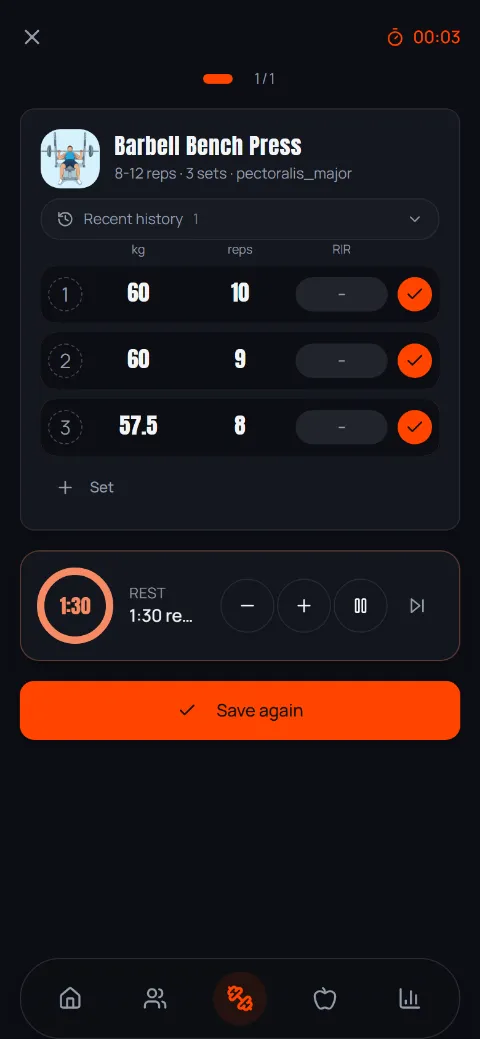
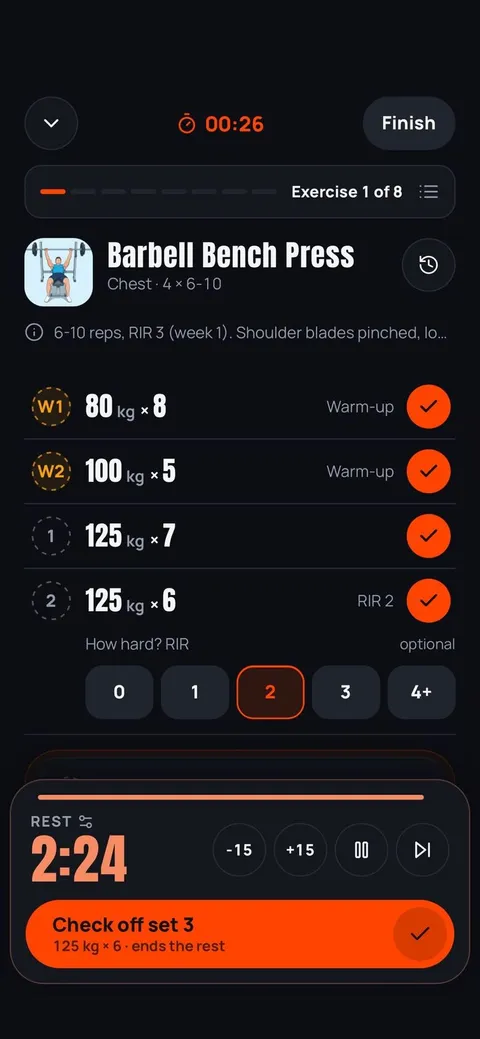
New app screenshots for the new design; plan copy matches the app
- iPhone captures of 30 Sep 2026: onboarding, plan preview, workout with
  warm-ups, exercise library, exercise detail and food detail, with new
  captions and alt texts. Home, nutrition and progress follow.
- Plans: the app recommends a library program, the AI is one option.

diff --git a/src/content/screenshots.js b/src/content/screenshots.js
@@ -3,10 +3,12 @@
 // placements. Every file is 780 x 1688 (or 480 x 1039), so the frame can
 // reserve the space before the image loads.
 //
-// dashboard, onboarding-focus-muscles, nutrition-day, food-detail and
-// progress-records are iPhone captures (25 Sep 2026): cropped to the frame's
-// aspect, with the iOS status bar (time, battery) painted over in the app's
-// background. The *-dark.png files are older German captures and stay out of
+// All are iPhone captures, cropped to the frame's aspect with the iOS
+// status bar (time, battery) painted over in the app's background, or faded
+// out where a picture sits behind it: onboarding-focus-muscles,
+// plan-preview, active-workout, exercise-library, exercise-detail and
+// food-detail from 30 Sep 2026 (the new app design); dashboard,
+// nutrition-day and progress-records from 25 Sep 2026. The *-dark.png files are older German captures and stay out of
 // the English site. Order here is the gallery's order.
 const shot = (name) => ({ src: `/screenshots/${name}.webp`, src480: `/screenshots/${name}-480.webp` });
 
@@ -27,28 +29,28 @@ export const SCREENSHOTS = [
     alt: "Onboarding question 6 of 10, Focus muscle groups?, with the chest selected on a front-view body figure",
   },
   {
-    ...shot("plan-detail"),
+    ...shot("plan-preview"),
     title: "Plan",
-    caption: "Every training day of your plan, with sets and reps.",
-    alt: "A Push Pull Legs plan day with Barbell Bench Press and Neutral Grip Pull Ups, 3 x 8-12 each",
+    caption: "Programs built for muscle gain: days per week, time per workout, weeks and who each one is for.",
+    alt: "The Golden Era Split plan: a five-day split for advanced lifters, 5 days per week, 65 minutes per workout, 8 weeks with a deload in week 8, and a Pick this plan button",
   },
   {
     ...shot("active-workout"),
     title: "Workout",
-    caption: "Weight, reps and effort per set, with the rest timer running.",
-    alt: "An active workout logging three sets of Barbell Bench Press with a 1:30 rest timer",
+    caption: "Warm-up sets, then weight, reps and effort per set, with the rest timer running.",
+    alt: "An active workout on Barbell Bench Press, exercise 1 of 8: two warm-up sets of 80 kg x 8 and 100 kg x 5, working sets of 125 kg x 7 and 125 kg x 6 at RIR 2, and a 2:24 rest timer",
+  },
+  {
+    ...shot("exercise-library"),
+    title: "Exercise library",
+    caption: "601 exercises to search and filter by muscle and equipment.",
+    alt: "The exercise library with a search field, filters for muscles and equipment, 601 exercises and a list starting with Ab Wheel Rollout, Air Bike and Archer Pull Ups",
   },
   {
     ...shot("exercise-detail"),
-    title: "Exercise library",
-    caption: "Target muscles, equipment and level for every exercise.",
-    alt: "Exercise detail for Barbell Bench Press: primary and secondary muscles and equipment",
-  },
-  {
-    ...shot("exercise-detail-execution"),
     title: "Execution",
-    caption: "Step-by-step instructions with start and end position.",
-    alt: "Execution tab of an exercise with illustrated positions and step-by-step instructions",
+    caption: "Start and end position with step-by-step instructions.",
+    alt: "Concentration Curl with illustrated start and end positions, biceps and brachialis, dumbbell, beginner, and five numbered steps under How to do it",
   },
   {
     ...shot("nutrition-day"),
@@ -60,7 +62,7 @@ export const SCREENSHOTS = [
     ...shot("food-detail"),
     title: "Food",
     caption: "Calories and macros per portion, against your daily goal.",
-    alt: "Adding Banana, raw: 100 g selected, 97 kcal and its protein, carbs and fat as rings against the daily goal, and a nutrition facts table per 100 g",
+    alt: "Adding Banana, raw to lunch: 100 g, 97 kcal with 0.7 g protein, 22.7 g carbs and 0.3 g fat, the day's protein, carbs and fat against their goals, and nutrition facts per 100 g",
   },
   {
     ...shot("progress-records"),

diff --git a/src/components/home/PlanConfigurator.jsx b/src/components/home/PlanConfigurator.jsx
@@ -121,8 +121,8 @@ export function PlanConfigurator() {
           </motion.ol>
 
           <p className="mt-4 max-w-[70ch] text-small text-white/60">
-            A hand-picked example from the app's exercise library. In the app, the AI builds your actual plan from your goal,
-            level, equipment, training days and session length, and you can edit every day of it.
+            A hand-picked example from the app's exercise library. In the app you pick a ready-made program that matches your
+            goal, level and training days, build your own, or have one generated, and you can edit every day of it.
           </p>
 
           <div className="mt-6 flex flex-col gap-4 border-t border-hairline pt-6 sm:flex-row sm:items-center sm:justify-between">

diff --git a/src/components/home/HowItWorks.jsx b/src/components/home/HowItWorks.jsx
@@ -17,7 +17,7 @@ const STEPS = [
   },
   {
     title: "Get your plan",
-    body: "The AI builds a plan around your answers. Or put one together yourself. Every day of it stays editable.",
+    body: "Strivis recommends a program that fits your answers. Or let the AI build one, or put one together yourself. Every day of it stays editable.",
     shot: screenshot("Plan"),
   },
   {
